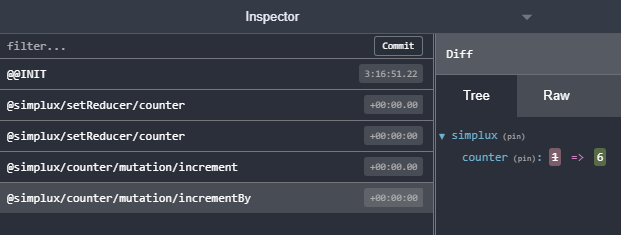
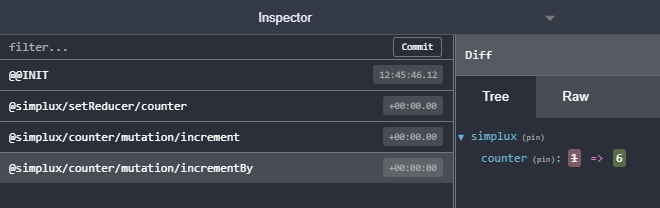
refactor(recipes): adjust "debugging with Redux DevTools" for latest library changes

Changed region(s): [[0.0, 0.1442, 1.0, 1.0], [0.3671, 0.0577, 0.4895, 0.1154], [0.8261, 0.0577, 0.8567, 0.0865]]

diff --git a/recipes/advanced/debugging-with-redux-devtools/src/index.ts b/recipes/advanced/debugging-with-redux-devtools/src/index.ts
@@ -6,6 +6,7 @@
 // provide the store to simplux
 
 import {
+  createMutations,
   createSimpluxModule,
   getSimpluxReducer,
   setReduxStoreForSimplux,
@@ -23,12 +24,12 @@ setReduxStoreForSimplux(store, s => s.simplux)
 
 // now when we create a module and call mutations we will see
 // them in the Redux DevTools
-const { createMutations } = createSimpluxModule({
+const counterModule = createSimpluxModule({
   name: 'counter',
   initialState: 0,
 })
 
-const { increment, incrementBy } = createMutations({
+const { increment, incrementBy } = createMutations(counterModule, {
   increment: c => c + 1,
   incrementBy: (c, amount: number) => c + amount,
 })

diff --git a/recipes/advanced/debugging-with-redux-devtools/README.md b/recipes/advanced/debugging-with-redux-devtools/README.md
@@ -33,14 +33,14 @@ setReduxStoreForSimplux(store, s => s.simplux)
 Now, when we create a **simplux** module and call its mutations we can see them in the DevTools.
 
 ```ts
-import { createSimpluxModule } from '@simplux/core'
+import { createMutations, createSimpluxModule } from '@simplux/core'
 
-const { createMutations } = createSimpluxModule({
+const counterModule = createSimpluxModule({
   name: 'counter',
   initialState: 0,
 })
 
-const { increment, incrementBy } = createMutations({
+const { increment, incrementBy } = createMutations(counterModule, {
   increment: c => c + 1,
   incrementBy: (c, amount: number) => c + amount,
 })
